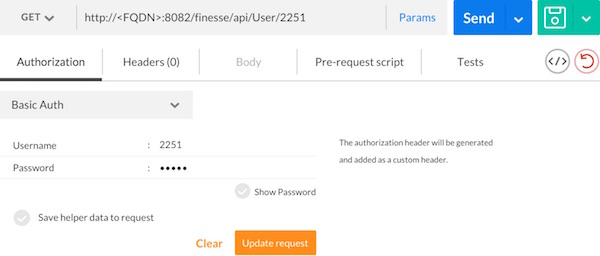
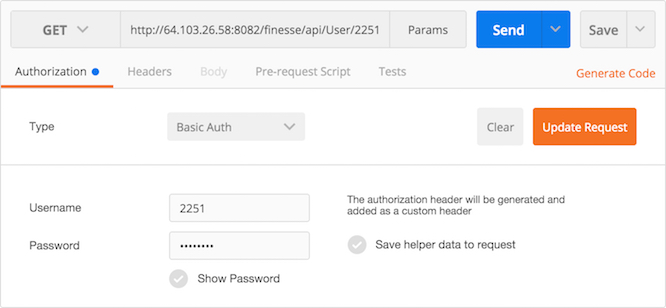
Updating text to be clearer and updating the images to use the IP of the always-on sandbox. Removing the byod because the learning lab is specific to the always-on lab

diff --git a/labs/finesse-basic-user-rest-apis/4.md b/labs/finesse-basic-user-rest-apis/4.md
@@ -4,9 +4,10 @@
 >  ```http
 http://64.103.26.58:8082/finesse/api/User/{id}
 ```
-> For more details, see <a href="https://developer.cisco.com/media/finesseDevGuide2/CFIN_RF_C1D2CCD7_00_change-agent-state.html" target="_blank">User - Change Agent State</a>
+> For more details about /User, see <a href="https://developer.cisco.com/media/finesseDevGuide2/CFIN_RF_C1D2CCD7_00_change-agent-state.html" target="_blank">User - Change Agent State</a>
 
 Changing the user’s state uses the same ``/User`` REST resource and HTTP **PUT** verb as the user Sign In API, but with different XML data in the request Body:
+
 To change to READY:
 ```xml
 <User>
@@ -20,25 +21,25 @@ To change to NOT_READY:
 </User>
 ```
 
-1. In **Postman**, construct a REST **PUT** request for the ``/User`` resource
- * In the field marked *Enter request URL here*, put the URL for the Finesse API ``/User`` resource with the same {id} as **Step 2: Get the user information section**
- * From the request method dropdown menu, make sure **PUT** is selected
- * Select the **Authorization** tab, and select **Basic Auth**. A form containing username and password appears.
- * For the Basic Auth **username** value, enter the id that was used in the ``/User`` resource
- * For the Basic Auth **password** value, enter the password of the user from the ``/User`` resource
- * Click the **Update request** button to generate an authorization header
+1. In **Postman**, construct a REST **PUT** request for the ``/User`` resource.
+ * In the field marked *Enter request URL here*, put the URL for the Finesse API ``/User`` resource with the same {id} as **Step 2: Get the user information section**.
+ * From the request method dropdown menu, make sure **PUT** is selected.
+ * Select the **Authorization** tab, and select **Basic Auth**. A form containing username and password fields appear.
+ * For the Basic Auth **username** value, enter the id that was used in the ``/User`` resource.
+ * For the Basic Auth **password** value, enter the password of the user from the ``/User`` resource.
+ * Click the **Update request** button to generate an authorization header.
  * Select the **Body** tab, and select the **raw** radio button. A dropdown menu containing the type of raw data appears.
- * Select **XML (application/xml)** from the dropdown menu
- * In the large body text box, paste the XML user data as shown above.
+ * Select **XML (application/xml)** from the dropdown menu.
+ * In the large body text box, paste the XML user data under 'To change to READY' as shown above.
 
     ![User PUT Request Change To READY](/posts/files/finesse-basic-user-rest-apis/assets/images/user-PUT-request-change-READY.jpg)
-2. Click the **Send** button to launch the request
-3. If the request is successful, you should see a HTTP status of 202 Accepted and an empty Body textbox
+2. Click the **Send** button to launch the request.
+3. If the request is successful, you should see a HTTP status of 202 Accepted and an empty Body textbox.
 
  ![User PUT Response Change To READY](/posts/files/finesse-basic-user-rest-apis/assets/images/user-PUT-response-change-READY.jpg)
-4. To confirm that the user was logged in successfully, use the GET user API from the **Step 2: Get the user information section** and verify that the <state> tag value is READY. If you kept the tab from Step 2 opened, switch back to that tab and click the **Send** button.
+4. To confirm that the user changed its state to READY successfully, use the GET user API from the **Step 2: Get the user information section** and verify that the <state> tag value is READY. If you kept the tab from Step 2 opened, switch back to that tab and click the **Send** button.
 
  ![User GET Response After Change To READY](/posts/files/finesse-basic-user-rest-apis/assets/images/user-GET-response-after-change-READY.jpg)
- 5. Repeat steps 1-4 in this section to change the user’s state to NOT_READY by using the XML user data to change the user state to NOT_READY as shown above. The reason why you need to change the state to NOT_READY is because you will be signing out the user in the next step. A user cannot sign out from READY state.
+5. Repeat steps 1-4 in this section to change the user’s state to NOT_READY by using the 'To change to NOT_READY' XML user data as shown above. The reason for changing the agent state back to NOT_READY is because a user cannot sign out from READY state, which you will be doing in the next step
 
  ![User PUT Request Change To NOT_READY](/posts/files/finesse-basic-user-rest-apis/assets/images/user-PUT-request-change-NOT_READY.jpg)

diff --git a/labs/finesse-basic-user-rest-apis/5.md b/labs/finesse-basic-user-rest-apis/5.md
@@ -4,7 +4,7 @@
 >  ```http
 http://64.103.26.58:8082/finesse/api/User/{id}
 ```
-> For more details, see <a href="https://developer.cisco.com/media/finesseDevGuide2/CFIN_RF_SC0D86B5_00_sign-out-of-finesse.html" target="_blank">User - Sign Out of Finesse</a>
+> For more details about /User, see <a href="https://developer.cisco.com/media/finesseDevGuide2/CFIN_RF_SC0D86B5_00_sign-out-of-finesse.html" target="_blank">User - Sign Out of Finesse</a>
 
 Signing out the user uses the same ``/User`` REST resource and HTTP **PUT** verb as the user change state API, but with different ``<state>`` value in the XML data in the request Body:
 ```xml
@@ -13,22 +13,22 @@ Signing out the user uses the same ``/User`` REST resource and HTTP **PUT** verb
 </User>
 ```
 
-1. In **Postman**, construct a REST **PUT** request for the ``/User`` resource
- * In the field marked *Enter request URL here*, put the URL for the Finesse API ``/User`` resource with the same {id} as **Step 2: Get the user information section**
- * From the request method dropdown menu, make sure **PUT** is selected
- * Select the **Authorization** tab, and select **Basic Auth**. A form containing username and password appears.
- * For the Basic Auth **username** value, enter the id that was used in the ``/User`` resource
- * For the Basic Auth **password** value, enter the password of the user from the ``/User`` resource
- * Click the **Update request** button to generate an authorization header
+1. In **Postman**, construct a REST **PUT** request for the ``/User`` resource.
+ * In the field marked *Enter request URL here*, put the URL for the Finesse API ``/User`` resource with the same {id} as **Step 2: Get the user information section**.
+ * From the request method dropdown menu, make sure **PUT** is selected.
+ * Select the **Authorization** tab, and select **Basic Auth**. A form containing username and password fields appear.
+ * For the Basic Auth **username** value, enter the id that was used in the ``/User`` resource.
+ * For the Basic Auth **password** value, enter the password of the user from the ``/User`` resource.
+ * Click the **Update request** button to generate an authorization header.
  * Select the **Body** tab, and select the **raw** radio button. A dropdown menu containing the type of raw data appears.
- * Select **XML (application/xml)** from the dropdown menu
- * In the large body text box, paste the XML user data as shown above. Change the value of the extension tag to the extension of the user in the ``/User`` resource
+ * Select **XML (application/xml)** from the dropdown menu.
+ * In the large body text box, paste the XML user data as shown above. Change the value of the extension tag to the extension of the user in the ``/User`` resource.
 
     ![User PUT Request Logout](/posts/files/finesse-basic-user-rest-apis/assets/images/user-PUT-request-logout.jpg)
-2. Click the **Send** button to launch the request
-3. If the request is successful, you should see a HTTP status of 202 Accepted and an empty Body textbox
+2. Click the **Send** button to launch the request.
+3. If the request is successful, you should see a HTTP status of 202 Accepted and an empty Body textbox.
 
  ![User PUT Response Logout](/posts/files/finesse-basic-user-rest-apis/assets/images/user-PUT-response-logout.jpg)
-4. To confirm that the user was logged in successfully, use the GET user API from the **Step 2: Get the user information section** and verify that the ``<state>`` tag value is LOGOUT. If you kept the tab from Step 2 opened, switch back to that tab and click the **Send** button.
+4. To confirm that the user was logged out successfully, use the GET user API from the **Step 2: Get the user information section** and verify that the ``<state>`` tag value is LOGOUT. If you kept the tab from Step 2 opened, switch back to that tab and click the **Send** button.
 
  ![User PUT Request After Logout](/posts/files/finesse-basic-user-rest-apis/assets/images/user-GET-response-after-logout.jpg)

diff --git a/labs/finesse-basic-user-rest-apis/3.md b/labs/finesse-basic-user-rest-apis/3.md
@@ -4,9 +4,9 @@
 >  ```http
 http://64.103.26.58:8082/finesse/api/User/{id}
 ```
-> For more details, see <a href="https://developer.cisco.com/media/finesseDevGuide2/CFIN_RF_S21A5A70_00_sign-in.html" target="_blank">User - Sign In to Finesse</a>
+> For more details about /User, see <a href="https://developer.cisco.com/media/finesseDevGuide2/CFIN_RF_S21A5A70_00_sign-in.html" target="_blank">User - Sign In to Finesse</a>
 
-Signing in the user uses the same ``/User`` REST resource, but this time via the HTTP **PUT** verb. In addition, we need to prove some extra information about the user (i.e. state and extension), represented as XML data in the request Body:
+Signing in the user uses the same ``/User`` REST resource, but this time via the HTTP ``PUT`` verb. In addition, we need to prove some extra information about the user (i.e. state and extension), represented as XML data in the request Body:
 ```xml
 <User>
    <state>LOGIN</state>
@@ -15,22 +15,22 @@ Signing in the user uses the same ``/User`` REST resource, but this time via the
 ```
 
 1. In **Postman**, open a new tab. As suggested in the previous step, it is not recommended to click the Reset button.
-2. Construct a REST **PUT** request for the ``/User`` resource
- * In the field marked *Enter request URL here*, put the URL for the Finesse API ``/User`` resource with the same {id} as **Step 2: Get the user information section**
- * From the request method dropdown menu, make sure **PUT** is selected
- * Select the **Authorization** tab, and select **Basic Auth**. A form containing username and password appears.
- * For the Basic Auth **username** value, enter the id that was used in the ``/User`` resource
- * For the Basic Auth **password** value, enter the password of the user from the ``/User`` resource
- * Click the **Update request** button to generate an authorization header
+2. Construct a REST **PUT** request for the ``/User`` resource.
+ * In the field marked *Enter request URL here*, put the URL for the Finesse API ``/User`` resource with the same {id} as **Step 2: Get the user information section**.
+ * From the request method dropdown menu, make sure **PUT** is selected.
+ * Select the **Authorization** tab, and select **Basic Auth**. A form containing username and password fields appear.
+ * For the Basic Auth **username** value, enter the id that was used in the ``/User`` resource.
+ * For the Basic Auth **password** value, enter the password of the user from the ``/User`` resource.
+ * Click the **Update request** button to generate an authorization header.
  * Select the **Body** tab, and select the **raw** radio button. A dropdown menu containing the type of raw data appears.
- * Select **XML (application/xml)** from the dropdown menu
+ * Select **XML (application/xml)** from the dropdown menu.
  * In the large body text box, paste the XML user data as shown above. Change the value of the extension tag to the extension found in the yellow overlay bar at the bottom of the screen.
 
     ![User Extension](/posts/files/finesse-basic-user-rest-apis/assets/images/user-extension-bar.jpg)
     
     ![User PUT Request Login](/posts/files/finesse-basic-user-rest-apis/assets/images/user-PUT-request-login.jpg)
-3. Click the **Send** button to launch the request
-4. If the request is successful, you should see a HTTP status of 202 Accepted and an empty Body textbox
+3. Click the **Send** button to launch the request.
+4. If the request is successful, you should see a HTTP status of 202 Accepted and an empty Body textbox.
 
  ![User PUT Response Login](/posts/files/finesse-basic-user-rest-apis/assets/images/user-PUT-response-login.jpg)
 5. To confirm that the user was logged in successfully, use the GET user API from the **Step 2: Get the user information section** and verify that the ``<state>`` tag value is NOT_READY. If you kept the tab from Step 2 opened, switch back to that tab and click the **Send** button.

diff --git a/labs/finesse-basic-user-rest-apis/2.md b/labs/finesse-basic-user-rest-apis/2.md
@@ -4,7 +4,7 @@
 >  ```http
 http://64.103.26.58:8082/finesse/api/User/{id}
 ```
-> For more details, see <a href="https://developer.cisco.com/media/finesseDevGuide2/CFIN_RF_G80CB92B_00_get-user.html" target="_blank">User - Get User</a>
+> For more details about /User, see <a href="https://developer.cisco.com/media/finesseDevGuide2/CFIN_RF_G80CB92B_00_get-user.html" target="_blank">User - Get User</a>
 
 The User object represents an agent or supervisor and includes information about the user, such as roles, state, and teams. 
 
@@ -12,20 +12,20 @@ The User object represents an agent or supervisor and includes information about
 
      ![User Credentials](/posts/files/finesse-basic-user-rest-apis/assets/images/user-credentials-bar.jpg)
 2. In **Postman**, open a new tab or click the Reset button to clear any previously entered data.
-3. Construct a REST **GET** request for the ``/User`` resource
- * In the field marked *Enter request URL here*, put the URL for the Finesse API ``/User`` resource (see the URL listed above). The {id} is the id of the user identified from step 1 in this section.
- * From the request method dropdown menu, make sure **GET** is selected
- * Select the **Authorization** tab, and select **Basic Auth**. A form containing username and password appears.
- * For the Basic Auth **username** value, enter the id that was used in the ``/User`` resource
- * For the Basic Auth **password** value, enter the password of the user from the ``/User`` resource
+3. Construct a REST **GET** request for the ``/User`` resource.
+ * In the field marked *Enter request URL here*, put the URL for the Finesse API ``/User`` resource (see the URL listed above). The {id} is the username of the user identified from step 1 in this section.
+ * From the request method dropdown menu, make sure **GET** is selected.
+ * Select the **Authorization** tab, and select **Basic Auth**. A form containing username and password fields appear.
+ * For the Basic Auth **username** value, enter the id that was used in the ``/User`` resource.
+ * For the Basic Auth **password** value, enter the password of the user from the ``/User`` resource.
 
     ![User GET Request Before Login](/posts/files/finesse-basic-user-rest-apis/assets/images/user-GET-request-before-login.jpg)
- * Click the **Update request** button to generate an authorization header
-4. Click the **Send** button to launch the request
+ * Click the **Update request** button to generate an authorization header.
+4. Click the **Send** button to launch the request.
 5. If the request is successful, you should get a HTTP status of 200 OK and see some XML formatted data with information about the user, such as user first name, last name, and user state.
 
  ![User GET Response Before Login](/posts/files/finesse-basic-user-rest-apis/assets/images/user-GET-response-before-login.jpg)
 6. If the value of the ``<state>`` tag is not LOGOUT, then the user is already logged in.
  * If the value of the ``<state>`` tag is NOT_READY, you can visit <a href="/lab/finesse-basic-user-rest-apis/step/5">Step #5</a> to log the user out. Then, try the Learning Lab again.
  * If the value of the ``<state>`` tag is READY, you can visit <a href="/lab/finesse-basic-user-rest-apis/step/4">Step #4</a> using the *To change to NOT_READY* for the HTTP request body followed by <a href="/lab/finesse-basic-user-rest-apis/step/5">Step #5</a>. Then, try the Learning Lab again.
-7. This step will be repeated throughout this learning lab. To avoid retyping the contents repeatedly, it is best to keep this tab open on Postman throughout the remainder of this learning lab.
+7. This step will be repeated throughout this learning lab. To avoid redoing the above steps repeatedly, it is best to keep this tab open on Postman throughout the remainder of this learning lab.

diff --git a/labs/finesse-basic-user-rest-apis/1.md b/labs/finesse-basic-user-rest-apis/1.md
@@ -27,18 +27,18 @@ In this lab, we will use the Google Chrome based REST test tool <a href="https:/
 >  ```http
 http://64.103.26.58:8082/finesse/api/SystemInfo
 ```
-> For more details, see <a href="https://developer.cisco.com/media/finesseDevGuide2/CFIN_RF_S6109343_00_systeminfo-get.html" target="_blank">SystemInfo - GET</a>
+> For more details about /SystemInfo, see <a href="https://developer.cisco.com/media/finesseDevGuide2/CFIN_RF_S6109343_00_systeminfo-get.html" target="_blank">SystemInfo - GET</a>
 
 The ``/SystemInfo`` API response represents the Finesse system and includes the deployment type, the peripheral ID, the installed license, the current system state, the XMPP server and pubSub domains, and the hostnames of the primary and secondary Finesse nodes.
 
-1. Open a browser tab, click the **Apps** button on the shortcut toolbar, then select **Postman – REST Client**
+1. Open a browser tab, click the **Apps** button on the shortcut toolbar, then select **Postman**.
 2. In **Postman**, open a new tab or click the Reset button to clear any previously entered data.
-3. Construct a REST **GET** request for the `/SystemInfo` resource
+3. Construct a REST **GET** request for the `/SystemInfo` resource.
  * In the field marked *Enter request URL here*, put the URL for the Finesse API ``/SystemInfo`` resource (See the URL listed above).
- * From the request method dropdown menu, make sure **GET** is selected
+ * From the request method dropdown menu, make sure **GET** is selected.
 
 	![SystemInfo GET Request](/posts/files/finesse-basic-user-rest-apis/assets/images/systemInfo-GET-request.jpg)
-4. Click the **Send** button to launch the request
+4. Click the **Send** button to launch the request.
 5. If the request is successful, you should get a HTTP status of 200 OK and see some XML formatted data with the status of the Finesse system.
 
  ![SystemInfo GET Response](/posts/files/finesse-basic-user-rest-apis/assets/images/systemInfo-GET-response.jpg)
